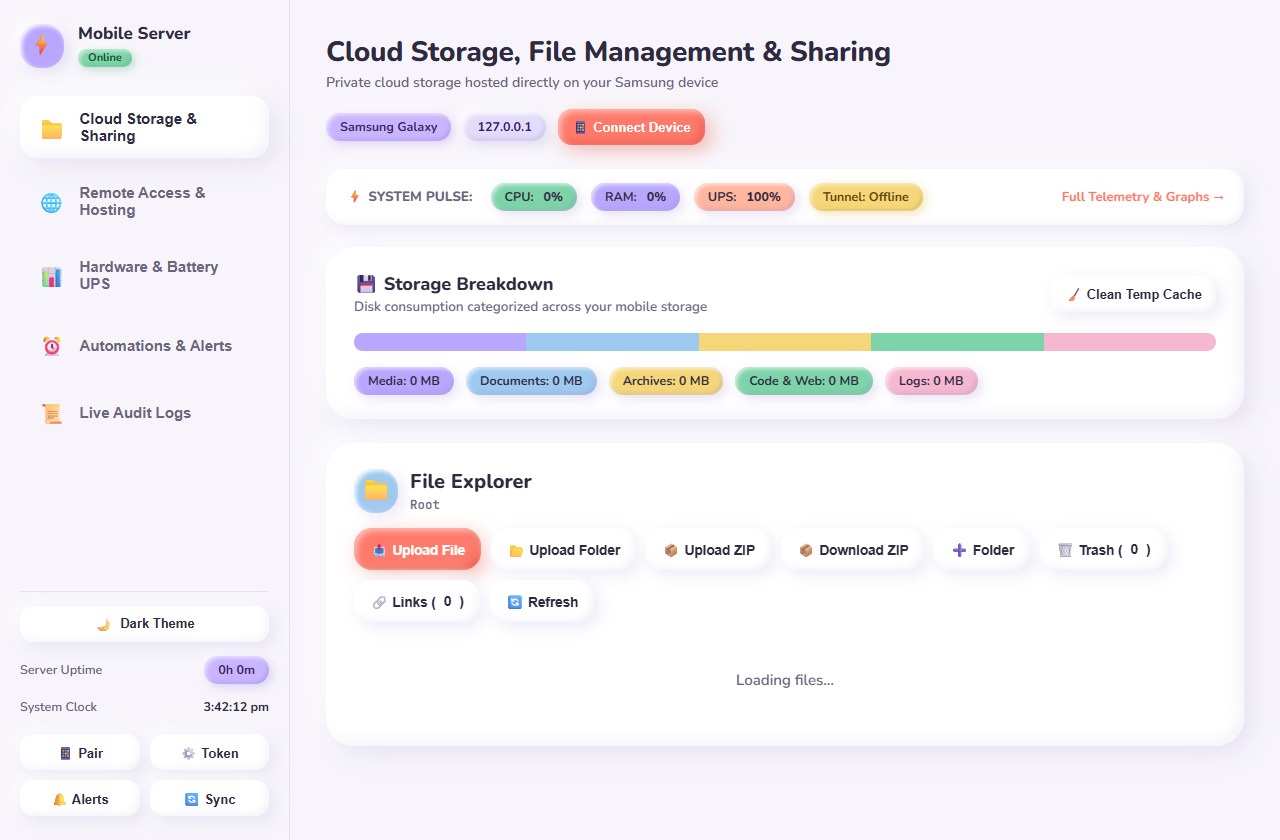
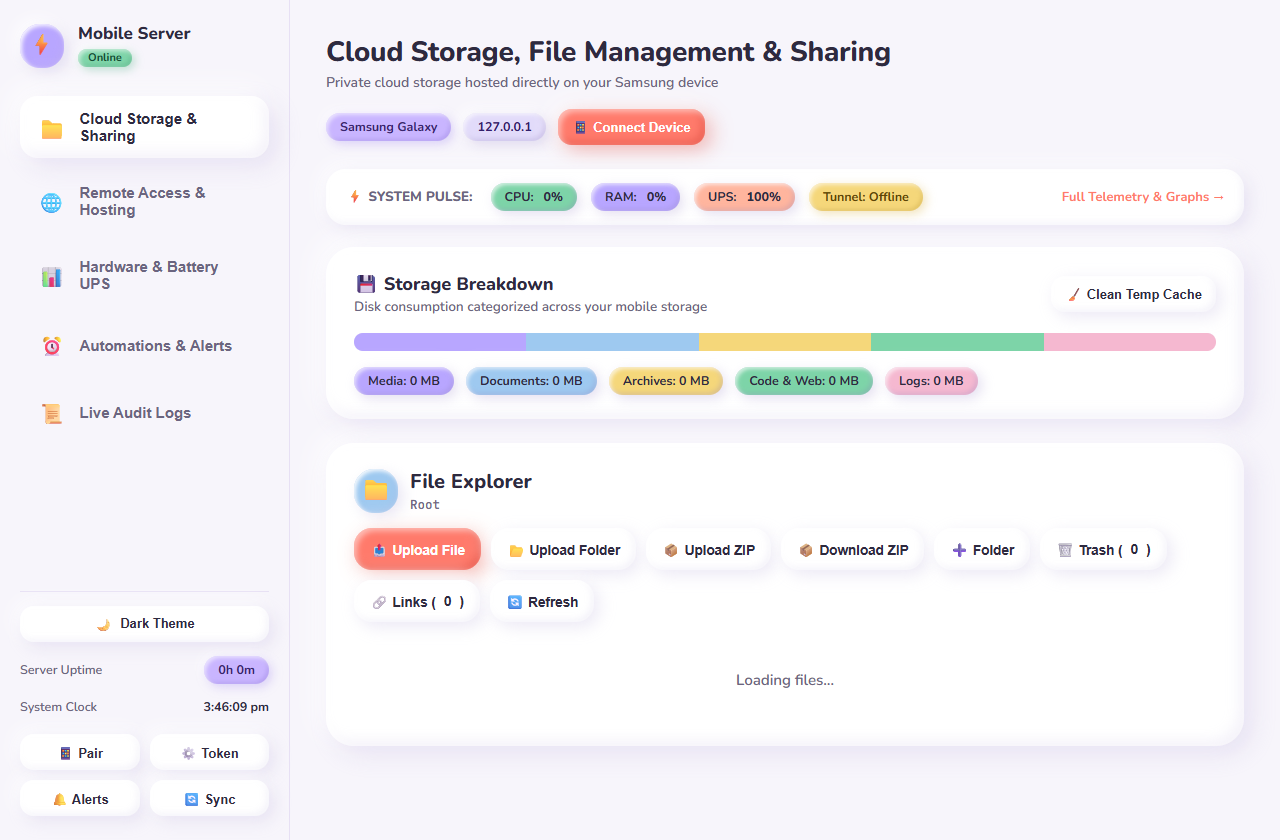
docs: rebuild README.md with exclusive light theme visual showcase

diff --git a/README.md b/README.md
@@ -1,6 +1,6 @@
 # ⚡ Mobile Hosted Server
 
-> **Ultra low-power personal home server & private cloud for Android (Termux) and PC. Features real-time hardware telemetry, built-in battery UPS monitoring, web file manager with ZIP/folder uploads, zero-config Cloudflare tunnels, 1-tap QR connect, 6-digit PIN pairing, and pure Claymorphism UI.**
+> **Ultra low-power personal home server & private cloud for Android (Termux) and PC. Features real-time hardware telemetry, built-in battery UPS monitoring, web file manager with ZIP/folder uploads, zero-config Cloudflare tunnels, 1-tap QR connect, human-friendly 6-digit PIN pairing, and pure Claymorphism UI.**
 
 [![Python](https://img.shields.io/badge/Python-3.8+-3776AB?style=flat&logo=python&logoColor=white)](https://www.python.org/)
 [![Flask](https://img.shields.io/badge/Flask-3.x-000000?style=flat&logo=flask&logoColor=white)](https://flask.palletsprojects.com/)
@@ -9,75 +9,81 @@
 [![License](https://img.shields.io/badge/License-MIT-blue.svg)](LICENSE)
 
 <p align="center">
-  <img src="docs/screenshots/dashboard_dark.png" alt="Mobile Hosted Server - Obsidian Dark Theme" width="49%">
-  <img src="docs/screenshots/dashboard_light.png" alt="Mobile Hosted Server - Pastel Light Theme" width="49%">
+  <img src="docs/screenshots/dashboard_light.png" alt="Mobile Hosted Server - Claymorphism Dashboard" width="100%">
 </p>
 
-An ultra-lightweight, self-hosted home server and dashboard designed to run seamlessly on Android devices (via [Termux](https://termux.dev)) or on any desktop/laptop (Windows, Linux, macOS).
+An ultra-lightweight, self-hosted personal cloud and homelab server designed to run 24/7 on Android devices (via [Termux](https://termux.dev)) or on any desktop/laptop (Windows, Linux, macOS).
 
 ---
 
 ## 🌟 Why an Android Phone as a Server?
 
 * 🔋 **Built-in Battery UPS**: Immune to sudden power outages — the phone's internal battery acts as a natural uninterrupted power supply (UPS), keeping your homelab online 24/7.
-* ⚡ **Ultra Low Power**: Consumes only ~2–4W under load compared to 60–100W+ for traditional desktop or rack servers.
-* 📶 **Always Connected**: Built-in Wi-Fi and mobile cellular failover in a compact, silent, fanless footprint.
+* ⚡ **Ultra Low Power**: Consumes only ~2–4W under load compared to 60–100W+ for traditional desktop or rack servers, saving money and generating zero noise.
+* 📶 **Always Connected**: Built-in Wi-Fi and mobile cellular failover in a compact, fanless, pocket-sized footprint.
 * ♻ **Upcycle Old Hardware**: Turn spare smartphones into high-performance personal cloud storage and compute servers.
 
 ---
 
-## 📸 Screenshots & Showcase
+## 📸 Interface Tour & Feature Showcase
 
-### 📁 Cloud Storage, File Management & Sharing (Main Landing)
-Browse, upload files, folders, and ZIP archives with automatic extraction, stream media in-browser, generate expiring download links, and monitor storage breakdown by category.
-
-<p align="center">
-  <img src="docs/screenshots/dashboard_dark.png" alt="Cloud Storage & File Explorer" width="95%">
-</p>
-
-### 📱 1-Tap QR Connect & 6-Digit PIN Pairing
-Zero friction pairing for phones, laptops, and tablets. Scan the dynamically generated QR code with any camera or enter the human-friendly 6-digit PIN code (`199 593`) to authenticate in seconds.
+### 📁 1. Cloud Storage, File Management & Sharing
+The primary landing view gives you full control over your storage. Upload individual files, nested folder structures, or `.zip` archives with automatic extraction. Preview photos, stream media, edit code in-browser, and monitor storage breakdown by category.
 
 <p align="center">
-  <img src="docs/screenshots/connect_modal.png" alt="1-Tap QR Connect & 6-Digit PIN Pairing" width="70%">
-</p>
-
-### 📊 Real-Time Hardware Telemetry & Battery UPS Health
-60-second real-time canvas chart tracking CPU %, RAM %, and network traffic, combined with battery temperature monitoring and thermal/swelling protection alerts.
-
-<p align="center">
-  <img src="docs/screenshots/telemetry_ups.png" alt="Hardware & Battery UPS Telemetry" width="95%">
-</p>
-
-### 🌐 Remote Access & Public Web Hosting
-Zero-config global HTTPS access via Cloudflare Tunnels, encrypted Tailscale WireGuard mesh networking, automated DuckDNS dynamic DNS updates, and static website hosting from `public_html/`.
-
-<p align="center">
-  <img src="docs/screenshots/remote_hosting.png" alt="Remote Access & Web Hosting" width="95%">
-</p>
-
-### ⏰ Background Automations, Cron Tasks & Webhook Alerts
-Automated recurring supervisor for shared storage backups, cache pruning, and log rotation, with push notifications to Discord channels and Telegram bots.
-
-<p align="center">
-  <img src="docs/screenshots/automations.png" alt="Automations & Webhook Alerts" width="95%">
+  <img src="docs/screenshots/dashboard_light.png" alt="Cloud Storage & File Explorer" width="100%">
 </p>
 
 ---
 
-## ✨ Core Features
+### 📱 2. 1-Tap QR Connect & 6-Digit PIN Pairing
+Pair any phone, laptop, or tablet in seconds with zero friction. Point your camera at the dynamic QR code to open the dashboard with instant authentication, or enter the human-friendly 6-digit PIN (`199 593`) without typing 32-character tokens.
 
-### 🎨 Pure Claymorphism UI & Dual Themes
-* 🏺 **Spec-Compliant Claymorphism**: Implements the official design spec with 3-layer colored depth and drop shadows, top-left specular sheens, 28px chunky radii, and tactile squish on click (`scale(0.97)`).
-* 🌓 **Light & Dark Obsidian Themes**: 1-click toggle between **Clay Pastel Light** (`#F7F5FB`) and **Obsidian Midnight Clay** (`#13101C` / `#1D182B`) with soft ambient violet glow.
-* ⚡ **Tactile Soft Pop-Up & Subtle Glow**: Interactive micro-elevation (`translateY(-2px) scale(1.025)`) and ambient glow across all chips, status pills, buttons, squircle icon tiles, and sidebar items.
-* 📱 **Dedicated Left Sidebar**: Fast navigation between **Cloud Storage & Sharing**, **Remote Access & Hosting**, **Hardware & Battery UPS**, **Automations & Alerts**, and **Live Audit Logs**.
+<p align="center">
+  <img src="docs/screenshots/connect_modal_light.png" alt="1-Tap QR Connect & 6-Digit PIN Pairing" width="75%">
+</p>
+
+---
+
+### 📊 3. Real-Time Hardware Telemetry & Battery UPS Health
+A smooth 60-second canvas graph tracks CPU %, RAM %, and network bandwidth in real time. Continuous battery level and thermal monitoring guard your phone from swelling with smart charging advisories during 24/7 wall power.
+
+<p align="center">
+  <img src="docs/screenshots/telemetry_ups_light.png" alt="Hardware & Battery UPS Telemetry" width="100%">
+</p>
+
+---
+
+### 🌐 4. Remote Access & Public Web Hosting
+Expose your server globally with zero port forwarding via 1-click Cloudflare Tunnels, join private WireGuard networks with Tailscale Mesh VPN, auto-update DuckDNS dynamic DNS records, and host static websites directly from `public_html/`.
+
+<p align="center">
+  <img src="docs/screenshots/remote_hosting_light.png" alt="Remote Access & Web Hosting" width="100%">
+</p>
+
+---
+
+### ⏰ 5. Background Automations, Cron Tasks & Webhook Alerts
+An automated recurring background supervisor handles shared storage backups, cache pruning, and log rotation. Push notifications alert your Discord channel or Telegram bot on critical hardware triggers (high temperature, low battery, low disk).
+
+<p align="center">
+  <img src="docs/screenshots/automations_light.png" alt="Automations & Webhook Alerts" width="100%">
+</p>
+
+---
+
+## ✨ Core Features Breakdown
+
+### 🎨 Pure Claymorphism UI & Micro-Interactions
+* 🏺 **Spec-Compliant Claymorphism**: Built following the official spec verbatim — multi-layer colored depth and drop shadows, top-left specular sheens, 28px chunky radii, and tactile squish on click (`scale(0.97)`).
+* ⚡ **Tactile Soft Pop-Up & Subtle Glow**: Interactive micro-elevation (`translateY(-2px) scale(1.025)`) and ambient glow across all chips, status pills, buttons, squircle icon tiles, and navigation items.
+* 📱 **Dedicated Left Sidebar**: Clean navigation between **Cloud Storage & Sharing**, **Remote Access & Hosting**, **Hardware & Battery UPS**, **Automations & Alerts**, and **Live Audit Logs**.
 * ⚡ **Quick System Pulse Bar**: Real-time status chips on the landing page for CPU, RAM, Battery UPS, and Tunnel connectivity with 1-click jumps to detailed telemetry.
 
-### 📁 Cloud Storage, File Manager & Sharing
-* 📦 **ZIP Upload & Auto-Extraction**: Upload `.zip` archives with 1-click automatic unpacking or store archive as-is.
+### 📁 Cloud Storage & File Manager
+* 📦 **ZIP Upload & Auto-Extraction**: Upload `.zip` archives with 1-click automatic unpacking or store archives as-is.
 * 📂 **Folder Uploads & ZIP Downloads**: Upload entire directory trees from your browser, or download any folder bundled into a `.zip` file.
-* 📝 **In-Browser Text & Code Editor**: Edit `.txt`, `.py`, `.sh`, `.json`, `.md`, `.html`, `.css`, and `.yaml` files with `Ctrl+S` keyboard shortcuts.
+* 📝 **In-Browser Text & Code Editor**: Edit `.txt`, `.py`, `.sh`, `.json`, `.md`, `.html`, `.css`, and `.yaml` files with `Ctrl+S` quick save.
 * 🔗 **Expiring Public Share Links**: Create shareable links with custom expiration (1 hour to 7 days), download caps, and optional password protection.
 * 🗑 **Safe Trash Bin**: Files are moved to `.trash/` instead of being permanently lost, with 1-click restore.
 * 🔍 **Interactive Category Filtering**: Click any storage category pill (`Media`, `Documents`, `Archives`, `Code & Web`, `Logs`) to instantly filter files in the directory.
